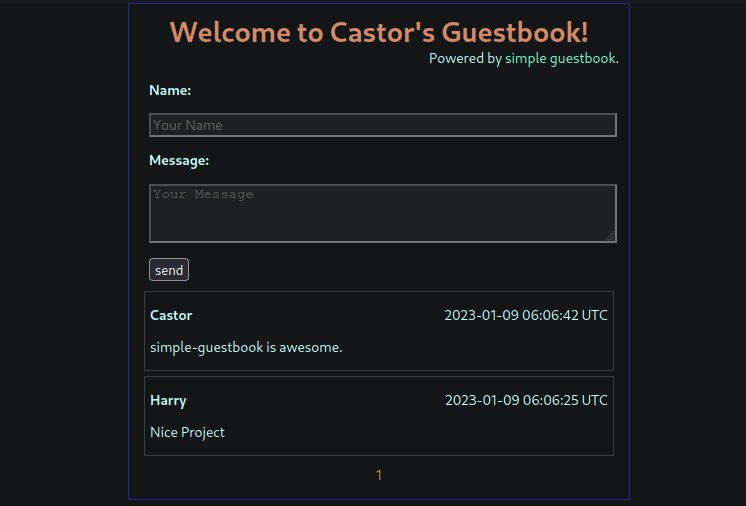
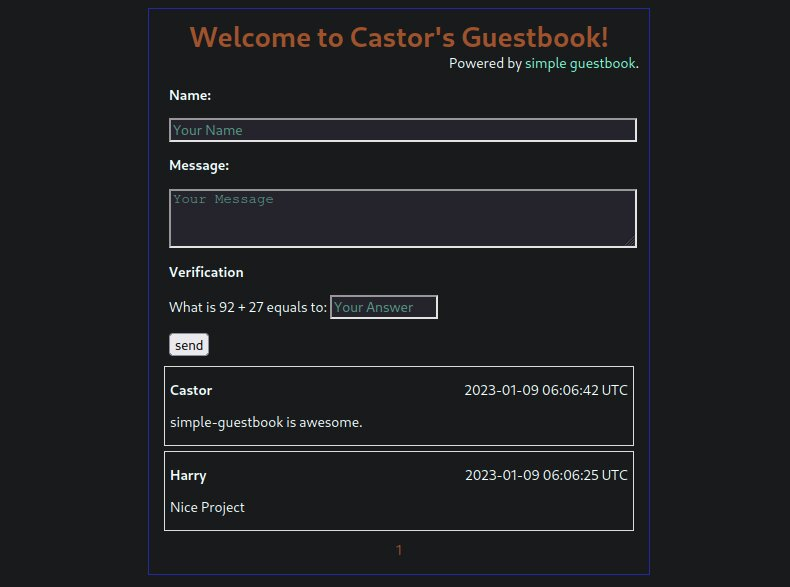
Updated readme

Changed region(s): [[0.1542, 0.0, 0.8633, 1.0]]

diff --git a/README.md b/README.md
@@ -18,6 +18,7 @@ Demo and preview at: <https://guestbook.yogeshlamichhane.com.np>.
 - Easy to setup and use
 - No 3rd party libs are used
 - No login required
+- simple captcha like verification process for anti-spam
 
 # Dependencies
 - php
@@ -49,7 +50,3 @@ Replace `<dbname>` with your database name and `<tablename>` with your tablename
 The table should look like following:
 
 ![database preview](/preview_database.jpg)
-
-## Todos
-
-1. add a simple captcha system or some verification system to disable spams.
